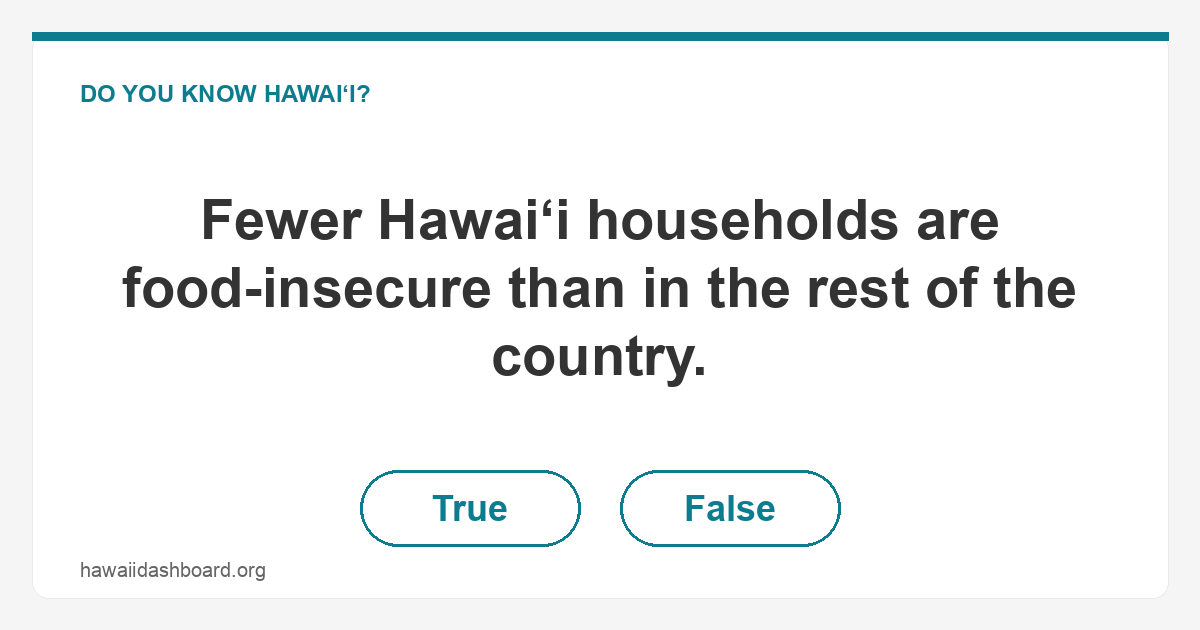
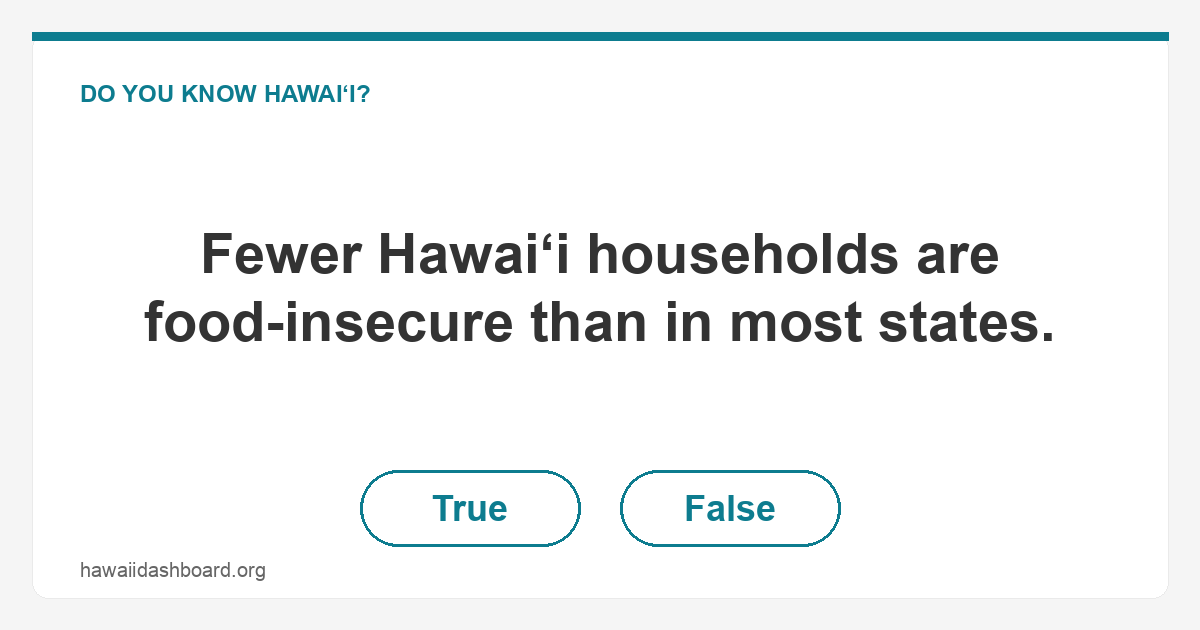
QOTD: tighten V1/V2 wording for claims where Hawaiʻi isn't rank #1
"Rest of the country" literally implies Hawaiʻi is rank #1; the V1/V2
threshold is a median gap, not rank #1. Updated 9 claims to use
"most states" instead:

- q001 uninsured rate (#2)
- q005 renter cost burden (#5 highest)
- q017 unemployment (#7 lowest)
- q036 violent crime (#8 lowest)
- q047 primary care doctors (#8 highest)
- q054 renewable electricity (#22 highest)
- q058 roads in poor condition (#4 highest)
- q077 unsheltered homelessness (#3 highest)
- q081 food insecurity (#9 lowest)

Kept "rest of the country" on q050 (#1 electricity prices), q069
(#1 lowest voter turnout) — literally accurate — and q040 (false
claim by design).

Regenerated 49 redirect HTML pages and 49 OG PNGs. Tests 58/58 pass.

Changed region(s): [[0.0925, 0.3016, 0.8942, 0.6333]]

diff --git a/js/questions.js b/js/questions.js
@@ -21,7 +21,7 @@ const QOTD_QUESTIONS = [
   {
     "id": "q001",
     "slug": "smaller-share-of-hawaii-residents-lack-health-insurance-than-rest-of-country",
-    "claim": "Fewer Hawaiʻi residents lack health insurance than in the rest of the country.",
+    "claim": "Fewer Hawaiʻi residents lack health insurance than in most states.",
     "correct": true,
     "answer": "In 2024, 3.5% of Hawaiʻi residents lacked health insurance, versus the median of 7.5%.",
     "chartUrl": "/r/uninsured_rate/",
@@ -45,7 +45,7 @@ const QOTD_QUESTIONS = [
   {
     "id": "q017",
     "slug": "hawaii-has-lower-unemployment-than-the-rest-of-the-country",
-    "claim": "Hawaiʻi has lower unemployment than the rest of the country.",
+    "claim": "Hawaiʻi has lower unemployment than most states.",
     "correct": true,
     "answer": "In 2024, Hawaiʻi was 2.9% versus the median of 3.6%.",
     "chartUrl": "/r/unemployment_rate/",
@@ -69,7 +69,7 @@ const QOTD_QUESTIONS = [
   {
     "id": "q054",
     "slug": "hawaii-gets-more-electricity-from-renewables-than-the-rest-of-the-country",
-    "claim": "Hawaiʻi gets more of its electricity from renewables than the rest of the country.",
+    "claim": "Hawaiʻi gets more of its electricity from renewables than most states.",
     "correct": true,
     "answer": "In 2025, Hawaiʻi was 22.1% versus the median of 17.9%.",
     "chartUrl": "/r/renewables_share_gen/",
@@ -81,7 +81,7 @@ const QOTD_QUESTIONS = [
   {
     "id": "q058",
     "slug": "hawaii-has-more-roads-in-poor-condition-than-the-rest-of-the-country",
-    "claim": "More of Hawaiʻi's roads are in poor condition than in the rest of the country.",
+    "claim": "More of Hawaiʻi's roads are in poor condition than in most states.",
     "correct": true,
     "answer": "In 2023, Hawaiʻi was 21.6% versus the median of 7.1%.",
     "chartUrl": "/r/road_poor_pct/",
@@ -105,7 +105,7 @@ const QOTD_QUESTIONS = [
   {
     "id": "q077",
     "slug": "hawaii-has-more-unsheltered-homelessness-than-the-rest-of-the-country",
-    "claim": "Hawaiʻi has a higher rate of unsheltered homelessness than the rest of the country.",
+    "claim": "Hawaiʻi has a higher rate of unsheltered homelessness than most states.",
     "correct": true,
     "answer": "In 2024, Hawaiʻi was 28.2 per 10K versus the median of 3.5 per 10K.",
     "chartUrl": "/r/unsheltered_homeless_rate/",
@@ -117,7 +117,7 @@ const QOTD_QUESTIONS = [
   {
     "id": "q081",
     "slug": "hawaii-has-lower-food-insecurity-than-the-rest-of-the-country",
-    "claim": "Fewer Hawaiʻi households are food-insecure than in the rest of the country.",
+    "claim": "Fewer Hawaiʻi households are food-insecure than in most states.",
     "correct": true,
     "answer": "In 2022-2024, Hawaiʻi was 10.8% versus the median of 12.5%.",
     "chartUrl": "/r/food_insecurity_rate/",
@@ -141,7 +141,7 @@ const QOTD_QUESTIONS = [
   {
     "id": "q005",
     "slug": "most-hawaii-renters-spend-over-30-percent-on-rent",
-    "claim": "More Hawaiʻi renter households are cost-burdened than in the rest of the country.",
+    "claim": "More Hawaiʻi renter households are cost-burdened than in most states.",
     "correct": true,
     "answer": "In 2024, Hawaiʻi was 50.6% versus the median of 45.9%.",
     "chartUrl": "/r/renter_cost_burden_pct/",
@@ -177,7 +177,7 @@ const QOTD_QUESTIONS = [
   {
     "id": "q036",
     "slug": "hawaii-has-a-lower-violent-crime-rate-than-the-rest-of-the-country",
-    "claim": "Hawaiʻi has a lower violent crime rate than the rest of the country.",
+    "claim": "Hawaiʻi has a lower violent crime rate than most states.",
     "correct": true,
     "answer": "In 2024, Hawaiʻi was 217.7 per 100K versus the median of 320.2 per 100K.",
     "chartUrl": "/r/violent_crime_rate/",
@@ -309,7 +309,7 @@ const QOTD_QUESTIONS = [
   {
     "id": "q047",
     "slug": "hawaii-has-more-primary-care-doctors-than-the-rest-of-the-country",
-    "claim": "Hawaiʻi has more primary care doctors as a % of residents than in the rest of the country.",
+    "claim": "Hawaiʻi has more primary care doctors as a % of residents than in most states.",
     "correct": true,
     "answer": "In 2023, Hawaiʻi was 88.1 per 100K versus the median of 78.7 per 100K.",
     "chartUrl": "/r/pcp_per_100k/",

diff --git a/q/q047/index.html b/q/q047/index.html
@@ -13,7 +13,7 @@
   <meta name="twitter:card" content="summary_large_image">
   <meta name="twitter:title" content="Do you know Hawaiʻi?">
   <meta name="twitter:image" content="https://hawaiidashboard.org/assets/og/q/hawaii-has-more-primary-care-doctors-than-the-rest-of-the-country.png">
-  <meta name="description" content="Hawaiʻi has more primary care doctors as a % of residents than in the rest of the country.">
+  <meta name="description" content="Hawaiʻi has more primary care doctors as a % of residents than in most states.">
   <link rel="canonical" href="https://hawaiidashboard.org/q/q047/">
   <script>window.location.replace("/?from_q=q047");</script>
   <meta http-equiv="refresh" content="0;url=https://hawaiidashboard.org/?from_q=q047">

diff --git a/q/q054/index.html b/q/q054/index.html
@@ -13,7 +13,7 @@
   <meta name="twitter:card" content="summary_large_image">
   <meta name="twitter:title" content="Do you know Hawaiʻi?">
   <meta name="twitter:image" content="https://hawaiidashboard.org/assets/og/q/hawaii-gets-more-electricity-from-renewables-than-the-rest-of-the-country.png">
-  <meta name="description" content="Hawaiʻi gets more of its electricity from renewables than the rest of the country.">
+  <meta name="description" content="Hawaiʻi gets more of its electricity from renewables than most states.">
   <link rel="canonical" href="https://hawaiidashboard.org/q/q054/">
   <script>window.location.replace("/?from_q=q054");</script>
   <meta http-equiv="refresh" content="0;url=https://hawaiidashboard.org/?from_q=q054">

diff --git a/q/q077/index.html b/q/q077/index.html
@@ -13,7 +13,7 @@
   <meta name="twitter:card" content="summary_large_image">
   <meta name="twitter:title" content="Do you know Hawaiʻi?">
   <meta name="twitter:image" content="https://hawaiidashboard.org/assets/og/q/hawaii-has-more-unsheltered-homelessness-than-the-rest-of-the-country.png">
-  <meta name="description" content="Hawaiʻi has a higher rate of unsheltered homelessness than the rest of the country.">
+  <meta name="description" content="Hawaiʻi has a higher rate of unsheltered homelessness than most states.">
   <link rel="canonical" href="https://hawaiidashboard.org/q/q077/">
   <script>window.location.replace("/?from_q=q077");</script>
   <meta http-equiv="refresh" content="0;url=https://hawaiidashboard.org/?from_q=q077">

diff --git a/q/q001/index.html b/q/q001/index.html
@@ -13,7 +13,7 @@
   <meta name="twitter:card" content="summary_large_image">
   <meta name="twitter:title" content="Do you know Hawaiʻi?">
   <meta name="twitter:image" content="https://hawaiidashboard.org/assets/og/q/smaller-share-of-hawaii-residents-lack-health-insurance-than-rest-of-country.png">
-  <meta name="description" content="Fewer Hawaiʻi residents lack health insurance than in the rest of the country.">
+  <meta name="description" content="Fewer Hawaiʻi residents lack health insurance than in most states.">
   <link rel="canonical" href="https://hawaiidashboard.org/q/q001/">
   <script>window.location.replace("/?from_q=q001");</script>
   <meta http-equiv="refresh" content="0;url=https://hawaiidashboard.org/?from_q=q001">

diff --git a/q/q058/index.html b/q/q058/index.html
@@ -13,7 +13,7 @@
   <meta name="twitter:card" content="summary_large_image">
   <meta name="twitter:title" content="Do you know Hawaiʻi?">
   <meta name="twitter:image" content="https://hawaiidashboard.org/assets/og/q/hawaii-has-more-roads-in-poor-condition-than-the-rest-of-the-country.png">
-  <meta name="description" content="More of Hawaiʻi's roads are in poor condition than in the rest of the country.">
+  <meta name="description" content="More of Hawaiʻi's roads are in poor condition than in most states.">
   <link rel="canonical" href="https://hawaiidashboard.org/q/q058/">
   <script>window.location.replace("/?from_q=q058");</script>
   <meta http-equiv="refresh" content="0;url=https://hawaiidashboard.org/?from_q=q058">

diff --git a/q/q005/index.html b/q/q005/index.html
@@ -13,7 +13,7 @@
   <meta name="twitter:card" content="summary_large_image">
   <meta name="twitter:title" content="Do you know Hawaiʻi?">
   <meta name="twitter:image" content="https://hawaiidashboard.org/assets/og/q/most-hawaii-renters-spend-over-30-percent-on-rent.png">
-  <meta name="description" content="More Hawaiʻi renter households are cost-burdened than in the rest of the country.">
+  <meta name="description" content="More Hawaiʻi renter households are cost-burdened than in most states.">
   <link rel="canonical" href="https://hawaiidashboard.org/q/q005/">
   <script>window.location.replace("/?from_q=q005");</script>
   <meta http-equiv="refresh" content="0;url=https://hawaiidashboard.org/?from_q=q005">

diff --git a/q/q081/index.html b/q/q081/index.html
@@ -13,7 +13,7 @@
   <meta name="twitter:card" content="summary_large_image">
   <meta name="twitter:title" content="Do you know Hawaiʻi?">
   <meta name="twitter:image" content="https://hawaiidashboard.org/assets/og/q/hawaii-has-lower-food-insecurity-than-the-rest-of-the-country.png">
-  <meta name="description" content="Fewer Hawaiʻi households are food-insecure than in the rest of the country.">
+  <meta name="description" content="Fewer Hawaiʻi households are food-insecure than in most states.">
   <link rel="canonical" href="https://hawaiidashboard.org/q/q081/">
   <script>window.location.replace("/?from_q=q081");</script>
   <meta http-equiv="refresh" content="0;url=https://hawaiidashboard.org/?from_q=q081">

diff --git a/q/q036/index.html b/q/q036/index.html
@@ -13,7 +13,7 @@
   <meta name="twitter:card" content="summary_large_image">
   <meta name="twitter:title" content="Do you know Hawaiʻi?">
   <meta name="twitter:image" content="https://hawaiidashboard.org/assets/og/q/hawaii-has-a-lower-violent-crime-rate-than-the-rest-of-the-country.png">
-  <meta name="description" content="Hawaiʻi has a lower violent crime rate than the rest of the country.">
+  <meta name="description" content="Hawaiʻi has a lower violent crime rate than most states.">
   <link rel="canonical" href="https://hawaiidashboard.org/q/q036/">
   <script>window.location.replace("/?from_q=q036");</script>
   <meta http-equiv="refresh" content="0;url=https://hawaiidashboard.org/?from_q=q036">

diff --git a/q/q017/index.html b/q/q017/index.html
@@ -13,7 +13,7 @@
   <meta name="twitter:card" content="summary_large_image">
   <meta name="twitter:title" content="Do you know Hawaiʻi?">
   <meta name="twitter:image" content="https://hawaiidashboard.org/assets/og/q/hawaii-has-lower-unemployment-than-the-rest-of-the-country.png">
-  <meta name="description" content="Hawaiʻi has lower unemployment than the rest of the country.">
+  <meta name="description" content="Hawaiʻi has lower unemployment than most states.">
   <link rel="canonical" href="https://hawaiidashboard.org/q/q017/">
   <script>window.location.replace("/?from_q=q017");</script>
   <meta http-equiv="refresh" content="0;url=https://hawaiidashboard.org/?from_q=q017">
